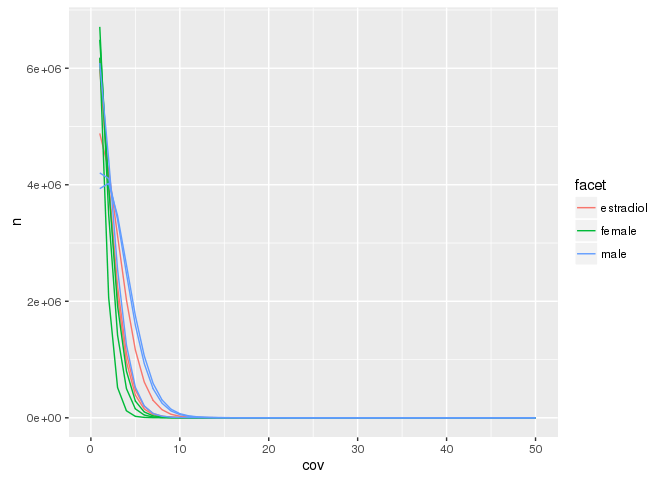
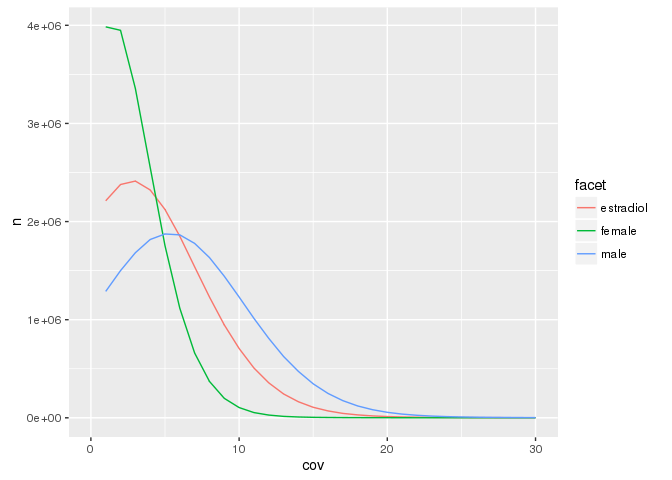
Updated data to reflect merging replicates

diff --git a/Data_Analysis/1-Methylation_sanity_check.md b/Data_Analysis/1-Methylation_sanity_check.md
@@ -15,6 +15,7 @@ require(knitr)
 require(dplyr)
 require(ggplot2)
 require(pheatmap)
+# setwd("Data_Analysis")
 ```
 
 ## Load data
@@ -30,8 +31,9 @@ cpg_files <- foreach(i=seq_along(cpg_file_names), .combine = c) %dopar% {
   tmp <- fread(input = cpg_file_names[i]) %>% 
     setnames(c("chr","pos","end","converted_C","cov")) %>% 
     filter(chr != "chrMT") %>%
-    mutate(meth = (converted_C/cov) %>% round(3)) %>%
-    select(chr, pos, meth, cov)
+    select(-end)
+#     mutate(sample = file_table$V2[i]) %>%
+#     mutate(sampel = gsub("[1-3]", "", sample)
   # save(tmp, file = paste0("../methylation_data/",file_table$V2[i],".RData"), compress = TRUE)
   list(tmp)
 }
@@ -39,18 +41,30 @@ cpg_files <- foreach(i=seq_along(cpg_file_names), .combine = c) %dopar% {
 names(cpg_files) <- file_table$V2
 ```
 
+## Merge replicates
+
 
 ```r
-all_cpgs <- rbindlist(cpg_files) %>% select(chr, pos) %>% unique()
+samples <- gsub("[1-3]", "", names(cpg_files)) %>% unique()
 
-cpg_files_merged <- foreach(i=1:length(cpg_files), .combine = cbind) %dopar% {
-  file_name <- names(cpg_files)[[i]]
-  left_join(all_cpgs, cpg_files[[i]]) %>%
-    select(meth, cov) %>%
-    setnames(paste0(file_name, c("_meth", "_cov")))
+samples_replicates <- foreach(i=samples, .combine=c) %do% {
+  list(paste0(i, 1:3))
+} 
+
+registerDoMC(9)
+cpg_files_merged <- foreach(i=seq_along(samples_replicates), .combine = c) %do% {
+  tmp <- rbindlist(cpg_files[samples_replicates[[i]]]) %>% group_by(chr, pos) %>% summarize(converted_C = sum(converted_C), cov = sum(cov))
+  list(tmp)
 }
 
-cpg_files_merged <- cbind(all_cpgs, cpg_files_merged)
+names(cpg_files_merged) <- samples
+
+# for (i in names(cpg_files_merged)) { 
+#   tmp <- cpg_files_merged[[i]]
+#   save(tmp, file = paste0("../methylation_data/", i, ".RData"), compress = TRUE)
+#   }
+
+rm(cpg_files)
 ```
 
 ## Analysis begins
@@ -61,33 +75,33 @@ cpg_files_merged <- cbind(all_cpgs, cpg_files_merged)
 
 
 ```r
-lapply(cpg_files, nrow) %>% data.frame() %>% t() %>% data.frame() %>% add_rownames() %>% arrange(rowname)
+lapply(cpg_files_merged, nrow) %>% data.frame() %>% t() %>% data.frame() %>% add_rownames() %>% arrange(rowname)
 ```
 
 ```
-## Source: local data frame [9 x 2]
+## Source: local data frame [3 x 2]
 ## 
-##      rowname        .
-##        (chr)    (int)
-## 1 estradiol1 13811801
-## 2 estradiol2 14178594
-## 3 estradiol3 16619149
-## 4    female1  8922668
-## 5    female2 12345885
-## 6    female3 13632672
-## 7      male1 18058509
-## 8      male2 15173572
-## 9      male3 17688957
+##     rowname        .
+##       (chr)    (int)
+## 1 estradiol 19313755
+## 2    female 18172632
+## 3      male 20194551
 ```
 
 #### Per chromosome per sample
 
 
 ```r
-cpg_per_chrom_per_sample <- foreach(i=1:length(cpg_files), .combine = rbind) %dopar%{
-  cpg_files[[i]] %>% group_by(chr) %>% tally() %>% mutate(sample = names(cpg_files)[i])
+cpg_per_chrom_per_sample <- foreach(i=1:length(cpg_files_merged), .combine = rbind) %dopar%{
+  cpg_files_merged[[i]] %>% group_by(chr) %>% tally() %>% mutate(sample = names(cpg_files_merged)[i])
 } 
+```
 
+```
+## Warning: executing %dopar% sequentially: no parallel backend registered
+```
+
+```r
 cpg_per_chrom_per_sample %>% 
   mutate(facet = gsub("[1-3]", "", sample),
          chr = factor(chr, levels = paste0("chr", c(1:20, "X", "Y")))) %>%
@@ -105,88 +119,119 @@ Well that sucks. Looks like the female libraries have less reads overall. Luckil
 
 
 ```r
-foreach(i=1:length(cpg_files), .combine = rbind) %dopar%{
-  cpg_files[[i]] %>% summarize(average_Cov = sum(cov)/n()) %>% mutate(sample = names(cpg_files)[i])
+foreach(i=1:length(cpg_files_merged), .combine = rbind) %dopar%{
+  cpg_files_merged[[i]] %>% summarize(average_Cov = sum(cov)/n()) %>% mutate(sample = names(cpg_files_merged)[i])
 } %>% arrange(sample)
 ```
 
 ```
-##    average_Cov     sample
-## 1:    2.013134 estradiol1
-## 2:    2.103462 estradiol2
-## 3:    2.696568 estradiol3
-## 4:    1.409210    female1
-## 5:    1.720337    female2
-## 6:    1.901558    female3
-## 7:    3.191067      male1
-## 8:    2.138167      male2
-## 9:    3.048415      male3
+##       chr average_Cov    sample
+##  1:  chr1    5.476094 estradiol
+##  2: chr10    5.736801 estradiol
+##  3: chr11    5.023292 estradiol
+##  4: chr12    6.004234 estradiol
+##  5: chr13    5.199681 estradiol
+##  6: chr14    5.142296 estradiol
+##  7: chr15    5.050131 estradiol
+##  8: chr16    5.331243 estradiol
+##  9: chr17    5.288710 estradiol
+## 10: chr18    5.175203 estradiol
+## 11: chr19    5.711336 estradiol
+## 12:  chr2    4.874629 estradiol
+## 13: chr20    5.562254 estradiol
+## 14:  chr3    5.400609 estradiol
+## 15:  chr4    5.161965 estradiol
+## 16:  chr5    5.397723 estradiol
+## 17:  chr6    5.256861 estradiol
+## 18:  chr7    5.418862 estradiol
+## 19:  chr8    5.423918 estradiol
+## 20:  chr9    5.219304 estradiol
+## 21:  chrX    4.524123 estradiol
+## 22:  chrY    1.300971 estradiol
+## 23:  chr1    3.390722    female
+## 24: chr10    3.471091    female
+## 25: chr11    3.152111    female
+## 26: chr12    3.563584    female
+## 27: chr13    3.242084    female
+## 28: chr14    3.216801    female
+## 29: chr15    3.173796    female
+## 30: chr16    3.300844    female
+## 31: chr17    3.284080    female
+## 32: chr18    3.219313    female
+## 33: chr19    3.482373    female
+## 34:  chr2    3.091982    female
+## 35: chr20    3.381829    female
+## 36:  chr3    3.329683    female
+## 37:  chr4    3.225020    female
+## 38:  chr5    3.310127    female
+## 39:  chr6    3.272852    female
+## 40:  chr7    3.331780    female
+## 41:  chr8    3.336972    female
+## 42:  chr9    3.262578    female
+## 43:  chrX    2.925713    female
+## 44:  chrY    1.344633    female
+## 45:  chr1    7.439010      male
+## 46: chr10    7.774309      male
+## 47: chr11    6.817459      male
+## 48: chr12    7.978227      male
+## 49: chr13    7.047682      male
+## 50: chr14    6.981192      male
+## 51: chr15    6.891583      male
+## 52: chr16    7.246655      male
+## 53: chr17    7.237178      male
+## 54: chr18    7.080687      male
+## 55: chr19    7.758012      male
+## 56:  chr2    6.658024      male
+## 57: chr20    7.439348      male
+## 58:  chr3    7.347554      male
+## 59:  chr4    7.039484      male
+## 60:  chr5    7.274793      male
+## 61:  chr6    7.173864      male
+## 62:  chr7    7.302060      male
+## 63:  chr8    7.403394      male
+## 64:  chr9    7.137286      male
+## 65:  chrX    3.583729      male
+## 66:  chrY    1.533679      male
+##       chr average_Cov    sample
 ```
 
 ### Coverage distribution
 
 
 ```r
-cov_distribution <- foreach(i=1:length(cpg_files), .combine = rbind) %dopar%{
-  cpg_files[[i]] %>% group_by(cov) %>% tally() %>% mutate(sample = names(cpg_files)[i])
+cov_distribution <- foreach(i=1:length(cpg_files_merged), .combine = rbind) %dopar%{
+  cpg_files_merged[[i]] %>% group_by(cov) %>% tally() %>% mutate(sample = names(cpg_files_merged)[i])
 }
 
 cov_distribution %>%
   mutate(facet = gsub("[1-3]", "", sample)) %>%
   ggplot(aes(cov, n, group = sample, color = facet))+
   geom_line() +
-  xlim(0,50)
+  xlim(0,30)
 ```
 
 ```
-## Warning: Removed 240 rows containing missing values (geom_path).
+## Warning: Removed 493 rows containing missing values (geom_path).
 ```
 
 ![](1-Methylation_sanity_check_files/figure-html/cov_distribution-1.png)
 
-Distribution of coverage looks poisson at least...
-
-Actually, the male samples seem screwed up somehow?
-
-
-```r
-cov_distribution %>%
-  mutate(facet = gsub("[1-3]", "", sample)) %>%
-  filter(facet == "male") %>%
-  ggplot(aes(cov, n, group = sample, color = sample))+
-  facet_wrap(~sample) +
-  geom_line() +
-  xlim(0,50)
-```
-
-```
-## Warning: Removed 108 rows containing missing values (geom_path).
-```
-
-![](1-Methylation_sanity_check_files/figure-html/cov_distribution_male-1.png)
-
-Hmm... not sure what this means... hope it wont affect results.
+Distribution of coverage looks poisson!
 
 ### Average methylation per sample
 
 
 ```r
-foreach(i=1:length(cpg_files), .combine = rbind) %dopar%{
-  cpg_files[[i]] %>% summarize(mean_meth = mean(meth) %>% round(3)) %>% mutate(sample = names(cpg_files)[i])
+foreach(i=1:length(cpg_files_merged), .combine = rbind) %dopar%{
+  cpg_files_merged[[i]] %>% ungroup %>% summarize(mean_meth = mean(converted_C/cov) %>% round(3)) %>% mutate(sample = names(cpg_files_merged)[i])
 } %>% arrange(sample)
 ```
 
 ```
-##    mean_meth     sample
-## 1:     0.772 estradiol1
-## 2:     0.776 estradiol2
-## 3:     0.777 estradiol3
-## 4:     0.763    female1
-## 5:     0.774    female2
-## 6:     0.776    female3
-## 7:     0.771      male1
-## 8:     0.774      male2
-## 9:     0.775      male3
+##    mean_meth    sample
+## 1:     0.780 estradiol
+## 2:     0.775    female
+## 3:     0.776      male
 ```
 
 Looks like methylation is generally very similar across samples (xxcept female 1, what's up with that?)
@@ -195,12 +240,14 @@ Looks like methylation is generally very similar across samples (xxcept female 1
 
 
 ```r
-dist_DNA_meth <- foreach(i=1:length(cpg_files), .combine = rbind) %dopar%{
-  tmp <- hist(cpg_files[[i]]$meth, plot=FALSE, breaks = seq(0,1,0.05))
+dist_DNA_meth <- foreach(i=1:length(cpg_files_merged), .combine = rbind) %dopar%{
+  tmp <- cpg_files_merged[[i]]
+  tmp$meth <- tmp$converted_C/tmp$cov
+  tmp <- hist(tmp$meth, plot=FALSE, breaks = seq(0,1,0.05))
   data.table(
     breaks = tmp$breaks[-1],
     counts = tmp$counts 
-  ) %>% mutate(sample = names(cpg_files)[i])
+  ) %>% mutate(sample = names(cpg_files_merged)[i])
 }
 
 dist_DNA_meth %>%
@@ -220,11 +267,34 @@ Yep, super low coverage = higher chance of 0% or 100%...
 
 
 ```r
-pairwise_cor <- cpg_files_merged %>%
+all_cpgs <- rbindlist(cpg_files_merged) %>% select(chr, pos) %>% unique()
+
+cpg_files_merged_cbind <- foreach(i=1:length(cpg_files_merged), .combine = cbind) %do% {
+  file_name <- names(cpg_files_merged)[[i]]
+  tmp <- cpg_files_merged[[i]] %>% mutate(meth = converted_C/cov)
+  left_join(all_cpgs, tmp) %>%
+    select(meth) %>%
+    setnames(paste0(file_name, c("_meth")))
+}
+```
+
+```
+## Joining by: c("chr", "pos")
+## Joining by: c("chr", "pos")
+## Joining by: c("chr", "pos")
+```
+
+```r
+cpg_files_merged_cbind <- cbind(all_cpgs, cpg_files_merged_cbind)
+```
+
+
+```r
+pairwise_cor <- cpg_files_merged_cbind %>%
   select(contains("meth")) %>%
   cor(use = "pairwise.complete.obs")
 
-diag(pairwise_cor) <- NA
+diag(pairwise_cor) <- 1
 
 hclust <- hclust(as.dist(1-pairwise_cor))
 
